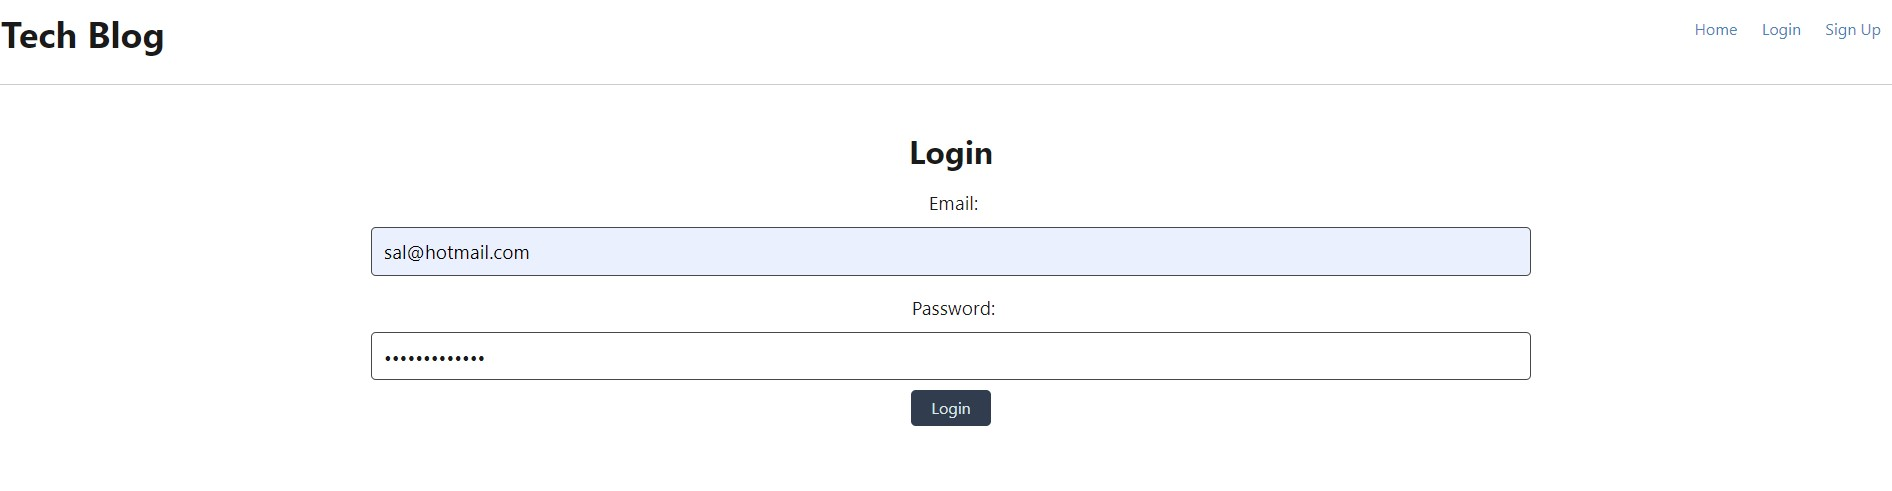
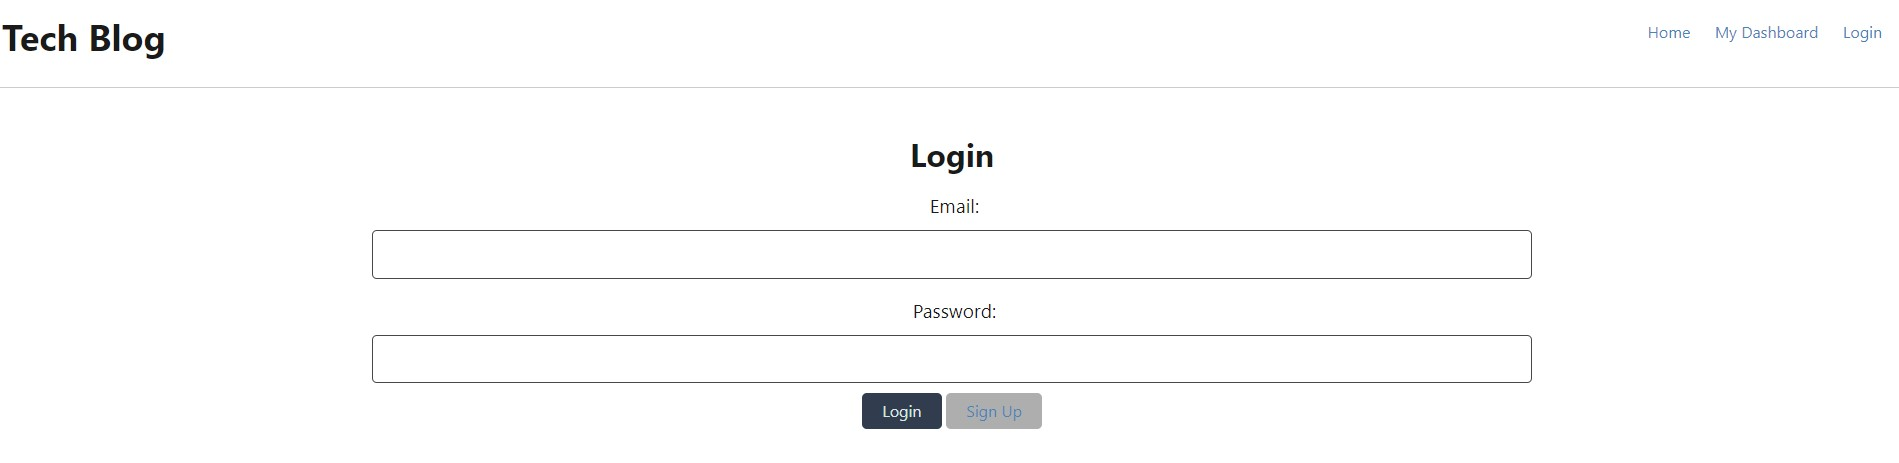
final commit

diff --git a/public/js/blog.js b/public/js/blog.js
@@ -14,7 +14,7 @@ const newFormHandler = async (event) => {
     });
 
     if (response.ok) {
-      document.location.replace('/');
+      document.location.replace('/dashboard');
     } else {
       alert('Failed to create blog');
     }

diff --git a/public/css/style.css b/public/css/style.css
@@ -88,8 +88,6 @@ header nav li:hover{
   font-size: 1rem;
   font-weight: bold;
   padding: 10px;
-  background: var(--primary);
-  color: var(--light);
 }
 
 .row {

diff --git a/README.MD b/README.MD
@@ -35,11 +35,15 @@ Create a CMS-style blog site similar to a Wordpress site, where developers can p
 
 ![LOGIN PAGE](/public/image/Login.jpg)
 
+*My Dashboard:*
+
+![ADD NEW BLOG](/public/image/My_Dashboard.jpg)
+
 *Add New Blog:*
 
 ![ADD NEW BLOG](/public/image/Add_New_Blog.jpg)
 
-*Add New Comment:*
+*Add Comment:*
 
 ![ADD NEW COMMENT](/public/image/Add_Comment.jpg)
 
